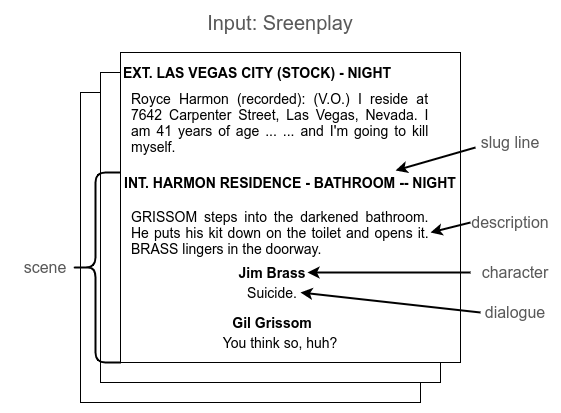
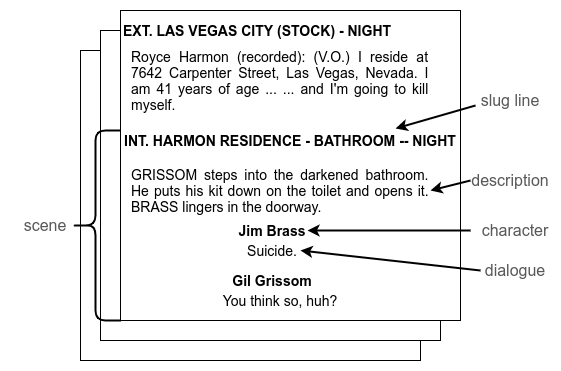
update

diff --git a/_posts/2020-04-28-Screenplay-Summarization-Using-Latent-Narrative-Structure.md b/_posts/2020-04-28-Screenplay-Summarization-Using-Latent-Narrative-Structure.md
@@ -53,7 +53,7 @@ Given a screenplay, which is naturally segmented into $N$ scenes $s$, we want to
 **Output**: much smaller subsequence of scenes containing most important events in the story; video summary by merging the videos of the selected scenes.
 <div class="row">
   <div class="column">
-    <img src="https://raw.githubusercontent.com/ppapalampidi/ppapalampidi.github.io/master/images/screenplay_example.png" width="300">
+    <img src="https://raw.githubusercontent.com/ppapalampidi/ppapalampidi.github.io/master/images/screenplay_example.png" width="500">
   </div>
   <div class="narrow_column">
 <p><strong>&nbsp;</strong></p>
